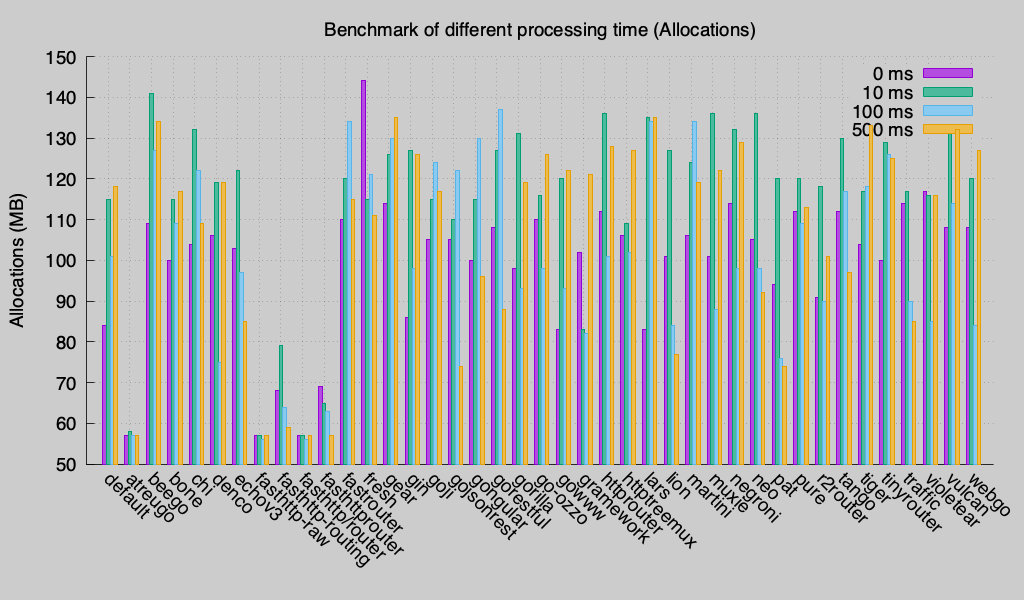
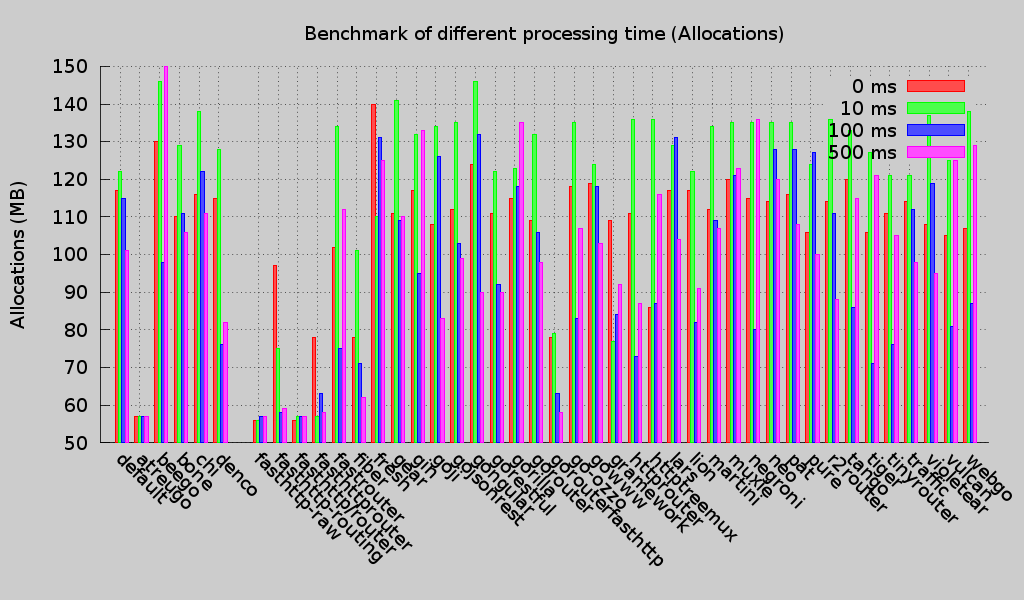
update benchmark

diff --git a/README.md b/README.md
@@ -1,7 +1,7 @@
 # go-web-framework-benchmark
 This benchmark suite aims to compare the performance of Go web frameworks. It is inspired by [Go HTTP Router Benchmark](https://github.com/julienschmidt/go-http-routing-benchmark) but this benchmark suite is different with that. Go HTTP Router Benchmark suit aims to compare the performance of **routers** but this Benchmark suit aims to compare whole HTTP request processing.
 
-**Last Test Updated:** 2019-07-27
+**Last Test Updated:** 2020-05
 
 *test environment*
 
